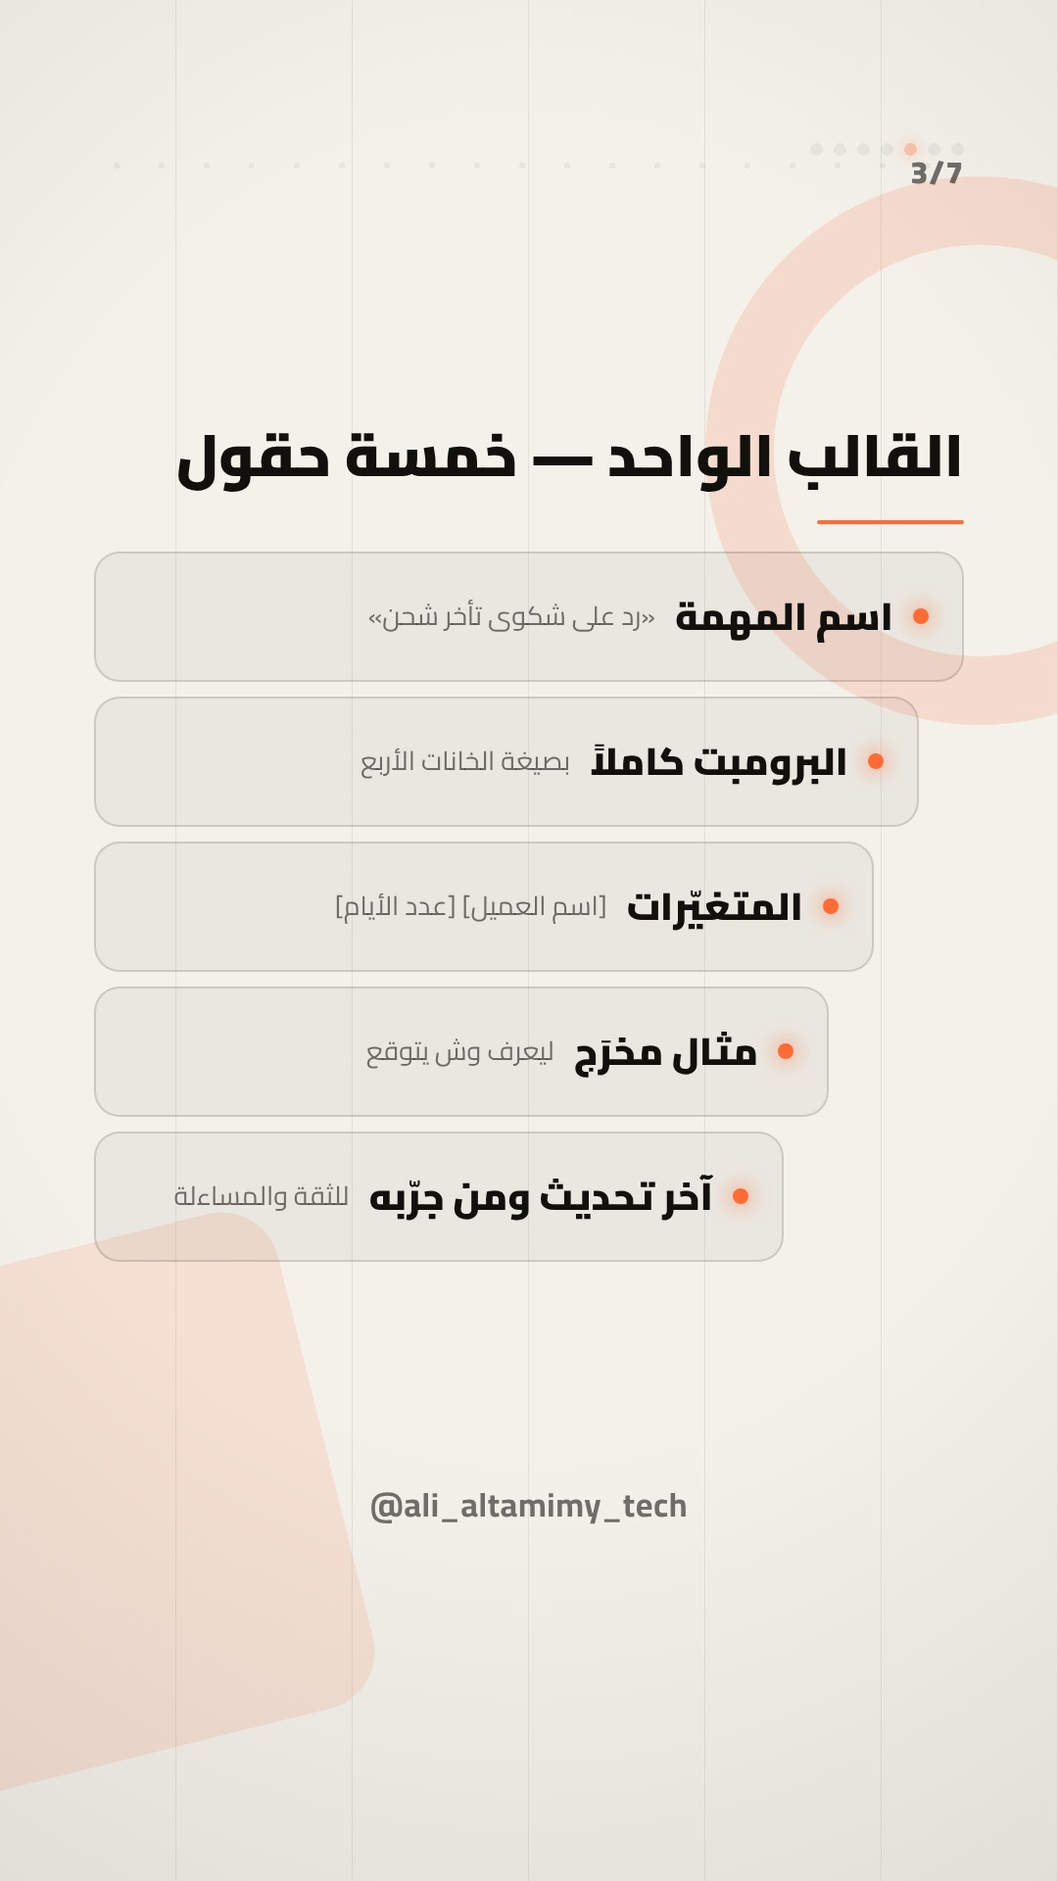
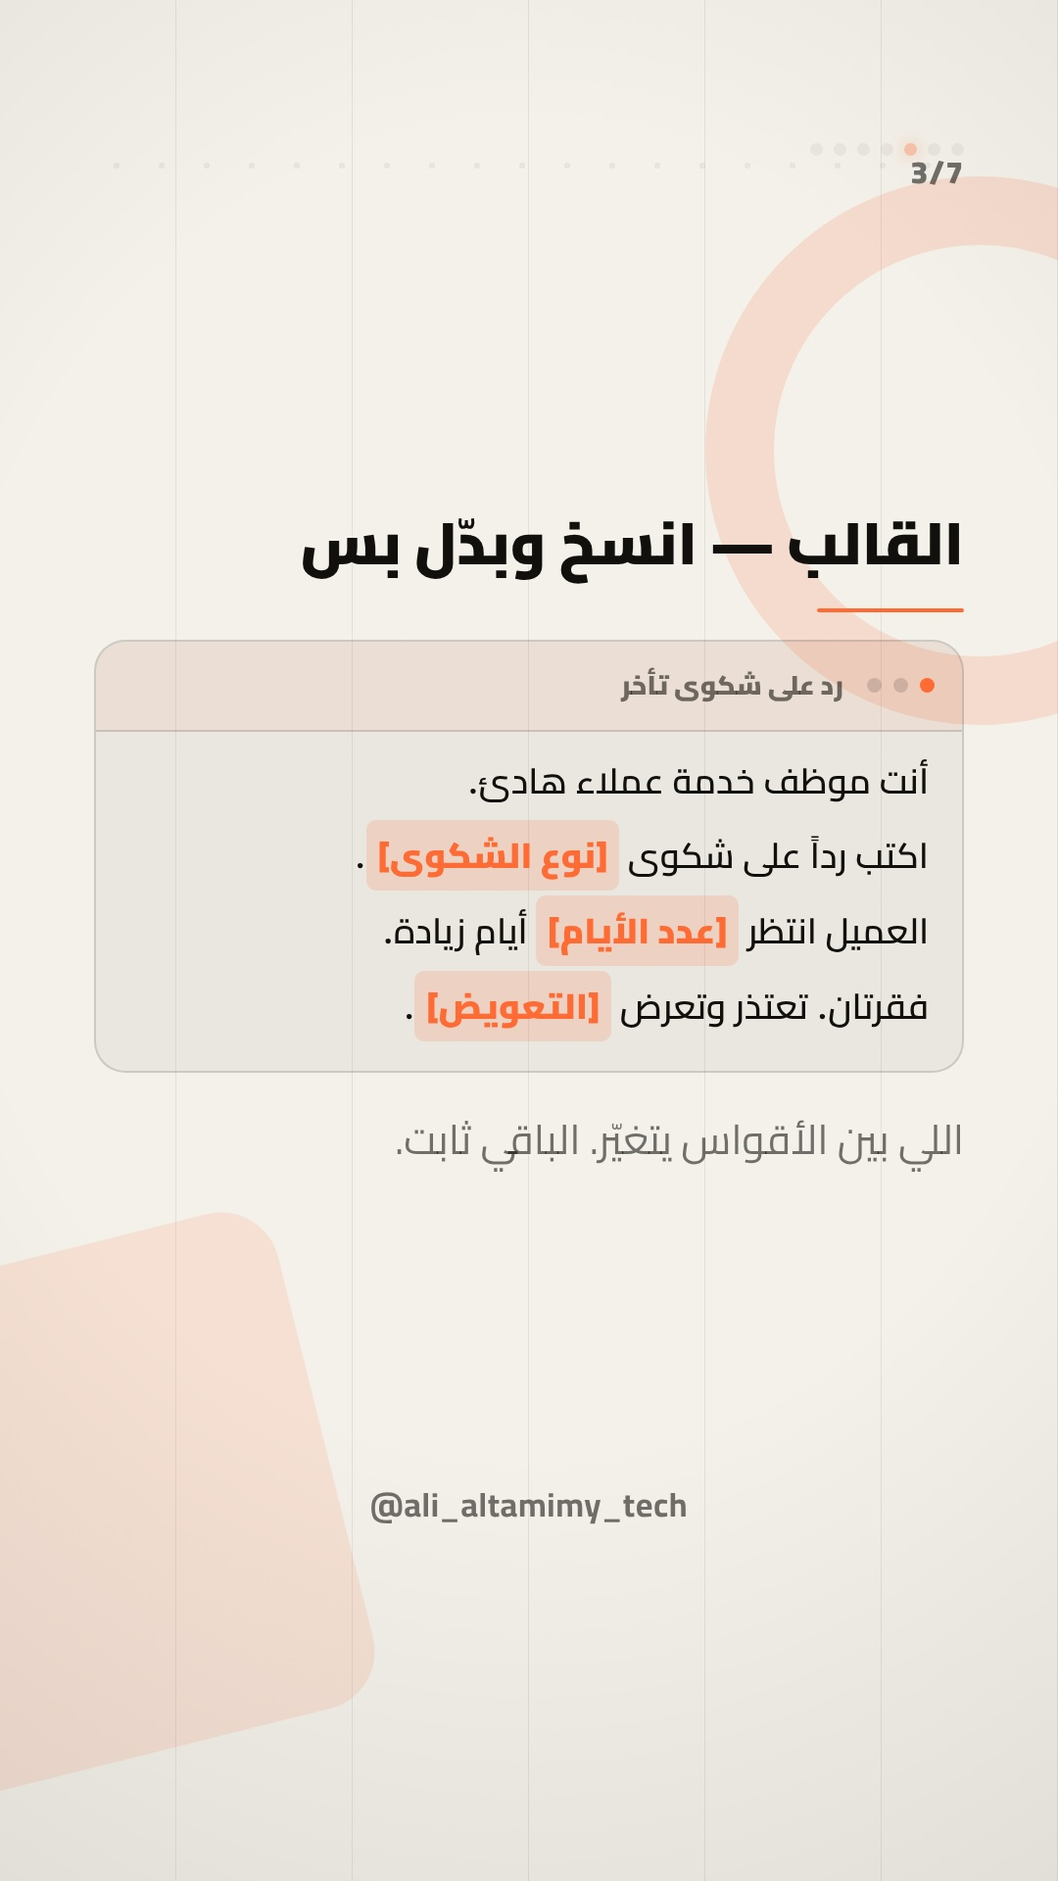
بطاقات توضيحية مرسومة + قواعد كتابة أوضح
## التصميم — أربع بطاقات جديدة تشرح بدل ما تصف

- chat: محادثة مصوّرة ببالونات — تُري المثال بدل ما تكتبه كنص
- prompt: بطاقة قالب بنمط محرّر؛ ما بين [أقواس] يتلوّن كمتغيّر
- checklist: قائمة تحقق بعلامات ✓/✕ ملوّنة
- scene: مشاهد SVG مرسومة بثلاث صيغ —
  funnel (تضييق) · split (عشوائية) · gauge (نسبة)

## المحتوى — ست قواعد وضوح في references/content.md

ابدأ من مشهد لا من مفهوم · جملة = فكرة (١٢ كلمة) · قاموس تبديل
المجرّد بالملموس · أرِ المثال لا تصفه · كل شريحة تفهم لوحدها ·
العنوان يقول الخلاصة لا الموضوع

كاروسيل اليوم ١٥ أُعيد بناؤه بالقواعد الجديدة كمرجع.

Claude-Session: https://claude.ai/code/session_01EgEZRcQa5qrBxqbudDi5cV

Changed region(s): [[0.1528, 0.2188, 0.9167, 0.6562], [0.5194, 0.2188, 0.55, 0.25], [0.3667, 0.375, 0.3972, 0.4062]]

diff --git a/.claude/skills/tiktok-ai-reel/graphics.py b/.claude/skills/tiktok-ai-reel/graphics.py
@@ -49,7 +49,7 @@ def icon(name, size=52, cls="", extra=""):
             f'stroke-linejoin="round" {extra}>{p}</svg>')
 
 
-import math
+import math, re
 
 
 def esc(s):
@@ -199,3 +199,145 @@ def icongrid(items, d0=0.35):
                    + '</div>')
     out.append("</div>")
     return "".join(out)
+
+
+# ————————————————————————— ٧ · بطاقة محادثة —————————————————————————
+
+def chat(turns, d0=0.32):
+    """محادثة مصوّرة — تحوّل نصيحة مجرّدة إلى مثال يُرى.
+
+    turns: [{"who":"me"|"ai", "label":"أنت", "text":"...", "bad":true}]
+    """
+    out = ['<div class="chat">']
+    for i, t in enumerate(turns[:4]):
+        who = "me" if t.get("who", "me") == "me" else "ai"
+        tone = " bad" if t.get("bad") else (" good" if t.get("good") else "")
+        lab = t.get("label") or ("أنت" if who == "me" else "الذكاء الاصطناعي")
+        out.append(
+            f'<div class="bub {who}{tone}" {_a("rise", d0 + i * 0.22, 0.6)}>'
+            f'<span class="who">{esc(lab)}</span>'
+            f'<p>{esc(t.get("text",""))}</p></div>')
+    out.append("</div>")
+    return "".join(out)
+
+
+# ————————————————————————— ٨ · بطاقة برومبت —————————————————————————
+
+def prompt_card(lines, title="", d0=0.32):
+    """بطاقة تشبه محرّر النصوص — المتغيّرات بين [أقواس] تتلوّن تلقائياً."""
+    head = (f'<div class="pcard-bar"><i></i><i></i><i></i>'
+            f'<span>{esc(title)}</span></div>') if title is not None else ""
+    body = []
+    for i, ln in enumerate(lines[:6]):
+        txt = re.sub(r"\[([^\]]+)\]", r'<em>[\1]</em>', esc(ln))
+        body.append(f'<div class="pline" {_a("rise", d0 + i * 0.13, 0.5)}>{txt}</div>')
+    return (f'<div class="pcard" {_a("pop", d0 - 0.1, 0.6)}>{head}'
+            f'<div class="pbody">{"".join(body)}</div></div>')
+
+
+# ————————————————————————— ٩ · قائمة تحقق —————————————————————————
+
+TICK = ('<svg viewBox="0 0 24 24" fill="none" stroke="currentColor" stroke-width="3.2" '
+        'stroke-linecap="round" stroke-linejoin="round"><path d="m5 12.5 4.5 4.5L19 7"/></svg>')
+CROSS = ('<svg viewBox="0 0 24 24" fill="none" stroke="currentColor" stroke-width="3.2" '
+         'stroke-linecap="round"><path d="M6 6l12 12M18 6L6 18"/></svg>')
+
+
+def checklist(items, d0=0.34):
+    """قائمة تحقق: {"text":"...", "ok":true|false}"""
+    out = ['<div class="chk">']
+    for i, it in enumerate(items[:5]):
+        ok = it.get("ok", True)
+        out.append(
+            f'<div class="crow {"y" if ok else "n"}" {_a("slide", d0 + i * 0.16, 0.55)}>'
+            f'<span class="mark">{TICK if ok else CROSS}</span>'
+            f'<span class="ctx">{esc(it.get("text",""))}</span></div>')
+    out.append("</div>")
+    return "".join(out)
+
+
+# ————————————————————————— ١٠ · مشاهد توضيحية —————————————————————————
+
+def _funnel(top, mid, bot, d0):
+    """قمع: كثير يدخل، واحد يخرج — لتوضيح التضييق."""
+    return f'''<svg class="scn" viewBox="0 0 880 560" fill="none" direction="rtl">
+  <path d="M110 70 H770 L520 320 V450 H360 V320 Z" fill="var(--soft)"
+        stroke="var(--a1)" stroke-width="5" stroke-linejoin="round"
+        {_a("pop", d0, 0.75)}/>
+  <text x="440" y="42" text-anchor="middle" fill="var(--muted)" font-size="30"
+        font-weight="700" font-family="Cairo,sans-serif"
+        {_a("fade", d0 + 0.3, 0.5)}>{esc(top)}</text>
+  <text x="440" y="215" text-anchor="middle" fill="var(--ink)" font-size="38"
+        font-weight="800" font-family="Cairo,sans-serif"
+        {_a("fade", d0 + 0.45, 0.5)}>{esc(mid)}</text>
+  <path d="M440 470 v46" stroke="var(--a1)" stroke-width="5" stroke-linecap="round"
+        {_a("fade", d0 + 0.55, 0.4)}/>
+  <circle cx="440" cy="530" r="26" fill="var(--a1)" {_a("pop", d0 + 0.62, 0.5)}/>
+  <text x="440" y="542" text-anchor="middle" fill="var(--bg)" font-size="26"
+        font-weight="900" font-family="Cairo,sans-serif">1</text>
+  <text x="600" y="540" text-anchor="middle" fill="var(--muted)" font-size="29"
+        font-weight="700" font-family="Cairo,sans-serif"
+        {_a("fade", d0 + 0.7, 0.5)}>{esc(bot)}</text>
+</svg>'''
+
+
+def _split(src, outs, d0):
+    """مصدر واحد ← نتائج متفرقة — لتوضيح العشوائية."""
+    n = max(2, min(len(outs), 4))
+    W, y0, y1 = 880, 110, 430
+    xs = [W * (i + 1) / (n + 1) for i in range(n)]
+    p = [f'<svg class="scn" viewBox="0 0 {W} 520" fill="none" direction="rtl">']
+    p.append(f'<rect x="320" y="40" width="240" height="86" rx="26" fill="var(--soft)" '
+             f'stroke="var(--a1)" stroke-width="5" {_a("pop", d0, 0.6)}/>')
+    p.append(f'<text x="440" y="95" text-anchor="middle" fill="var(--ink)" font-size="34" '
+             f'font-weight="800" font-family="Cairo,sans-serif" '
+             f'{_a("fade", d0 + 0.2, 0.5)}>{esc(src)}</text>')
+    for i, x in enumerate(xs):
+        d = d0 + 0.34 + i * 0.13
+        p.append(f'<path d="M440 {y0+20} C440 250 {x:.0f} 250 {x:.0f} {y1-56}" '
+                 f'stroke="var(--line)" stroke-width="4" stroke-dasharray="10 10" '
+                 f'{_a("fade", d, 0.4)}/>')
+        p.append(f'<rect x="{x-96:.0f}" y="{y1-46}" width="192" height="82" rx="22" '
+                 f'fill="var(--panel)" stroke="var(--line)" stroke-width="3" '
+                 f'{_a("pop", d + 0.06, 0.5)}/>')
+        p.append(f'<text x="{x:.0f}" y="{y1+4}" text-anchor="middle" fill="var(--muted)" '
+                 f'font-size="28" font-weight="700" font-family="Cairo,sans-serif">'
+                 f'{esc(outs[i])}</text>')
+    p.append("</svg>")
+    return "".join(p)
+
+
+def _gauge(pct, label, d0):
+    """مؤشّر نصف دائري — لتوضيح درجة أو نسبة."""
+    import math as _m
+    cx, cy, r = 440, 400, 260
+    L = _m.pi * r
+    ang = _m.pi * (1 - min(max(pct, 0), 100) / 100)
+    nx, ny = cx + _m.cos(ang) * (r - 36), cy - _m.sin(ang) * (r - 36)
+    return f'''<svg class="scn" viewBox="0 0 880 470" fill="none" direction="rtl">
+  <path d="M{cx-r} {cy} A{r} {r} 0 0 1 {cx+r} {cy}" stroke="var(--line)"
+        stroke-width="46" stroke-linecap="round"/>
+  <path d="M{cx-r} {cy} A{r} {r} 0 0 1 {cx+r} {cy}" stroke="var(--a1)"
+        stroke-width="46" stroke-linecap="round"
+        style="stroke-dasharray:{L:.1f};stroke-dashoffset:{L:.1f}"
+        {_a("ring", d0, 1.2, f'data-len="{L:.1f}" data-pct="{pct}"')}/>
+  <line x1="{cx}" y1="{cy}" x2="{nx:.1f}" y2="{ny:.1f}" stroke="var(--ink)"
+        stroke-width="9" stroke-linecap="round" {_a("fade", d0 + 0.75, 0.5)}/>
+  <circle cx="{cx}" cy="{cy}" r="22" fill="var(--ink)" {_a("pop", d0 + 0.8, 0.4)}/>
+  <text x="{cx}" y="{cy-56}" text-anchor="middle" fill="var(--ink)" font-size="92"
+        font-weight="900" font-family="Tajawal,Cairo,sans-serif" direction="ltr"
+        {_a("count", d0, 1.2, f'data-v="{pct}%"')}>{pct}%</text>
+  <text x="{cx}" y="{cy+62}" text-anchor="middle" fill="var(--muted)" font-size="31"
+        font-weight="700" font-family="Cairo,sans-serif"
+        {_a("fade", d0 + 0.6, 0.5)}>{esc(label)}</text>
+</svg>'''
+
+
+def scene(spec, d0=0.3):
+    """مشهد توضيحي مرسوم — يشرح الفكرة بشكل بدل نص."""
+    kind = spec.get("kind", "funnel")
+    if kind == "split":
+        return _split(spec.get("src", ""), spec.get("outs", []), d0)
+    if kind == "gauge":
+        return _gauge(spec.get("pct", 50), spec.get("label", ""), d0)
+    return _funnel(spec.get("top", ""), spec.get("mid", ""), spec.get("bot", ""), d0)

diff --git a/.claude/skills/tiktok-ai-reel/render_reel.py b/.claude/skills/tiktok-ai-reel/render_reel.py
@@ -289,6 +289,48 @@ svg [data-a],.icard,.ic{transform-box:fill-box;transform-origin:50% 50%}
 .prow{display:flex;align-items:center;gap:20px;align-self:flex-start}
 .prow .kicker,.prow .iconchip{align-self:auto}
 
+/* ————— بطاقة محادثة ————— */
+.chat{display:flex;flex-direction:column;gap:22px}
+.bub{max-width:86%;padding:30px 34px;border-radius:34px;display:flex;
+  flex-direction:column;gap:10px;border:2px solid var(--line);background:var(--panel)}
+.bub .who{font-weight:800;font-size:26px;color:var(--muted);letter-spacing:.3px}
+.bub p{font-weight:600;font-size:38px;line-height:1.5;color:var(--ink)}
+.bub.me{align-self:flex-start;border-bottom-right-radius:10px;
+  background:var(--soft);border-color:var(--a1)}
+.bub.ai{align-self:flex-end;border-bottom-left-radius:10px}
+.bub.bad{border-color:var(--bad)}
+.bub.bad .who{color:var(--bad)}
+.bub.good{border-color:var(--a1)}
+.bub.good .who{color:var(--a1)}
+
+/* ————— بطاقة برومبت ————— */
+.pcard{border-radius:32px;overflow:hidden;border:2px solid var(--line);
+  background:var(--panel)}
+.pcard-bar{display:flex;align-items:center;gap:12px;padding:20px 28px;
+  background:var(--dim);border-bottom:2px solid var(--line)}
+.pcard-bar i{width:15px;height:15px;border-radius:50%;background:var(--line);display:block}
+.pcard-bar i:first-child{background:var(--a1)}
+.pcard-bar span{margin-inline-start:12px;font-weight:800;font-size:27px;color:var(--muted)}
+.pbody{padding:32px 34px;display:flex;flex-direction:column;gap:16px}
+.pline{font-weight:600;font-size:36px;line-height:1.46;color:var(--ink)}
+.pline em{font-style:normal;font-weight:900;color:var(--a1);
+  background:var(--soft);padding:2px 12px;border-radius:10px}
+
+/* ————— قائمة تحقق ————— */
+.chk{display:flex;flex-direction:column;gap:20px}
+.crow{display:flex;align-items:center;gap:24px;padding:26px 32px;border-radius:28px;
+  background:var(--panel);border:2px solid var(--line)}
+.crow .mark{flex:0 0 auto;width:60px;height:60px;border-radius:50%;display:grid;
+  place-items:center}
+.crow .mark svg{width:32px;height:32px}
+.crow.y .mark{background:var(--soft);color:var(--a1)}
+.crow.n .mark{background:rgba(148,163,184,.16);color:var(--bad)}
+.crow .ctx{font-weight:700;font-size:39px;line-height:1.4}
+.crow.n .ctx{color:var(--muted)}
+
+/* ————— مشهد توضيحي ————— */
+.scn{width:100%;height:auto;align-self:center;overflow:visible}
+
 /* أيقونة داخل بطاقة/نقطة */
 .iconchip{width:104px;height:104px;border-radius:30px;display:grid;place-items:center;
   background:var(--soft);color:var(--a1);align-self:flex-start}
@@ -450,6 +492,27 @@ def scene_html(s):
         it = s.get("items", [])
         return (f'<div class="dgm">{head(s)}{G.icongrid(it, 0.38)}</div>'
                 + foot(s, 0.38 + 0.14 * len(it[:6]) + 0.3))
+
+    # ————— بطاقات توضيحية مرسومة —————
+    if t == "chat":
+        tn = s.get("turns", [])
+        return (f'<div class="dgm">{head(s)}{G.chat(tn, 0.36)}</div>'
+                + foot(s, 0.36 + 0.22 * len(tn[:4]) + 0.25))
+
+    if t == "prompt":
+        ln = s.get("lines", [])
+        return (f'<div class="dgm">{head(s)}'
+                f'{G.prompt_card(ln, s.get("file", "البرومبت"), 0.36)}</div>'
+                + foot(s, 0.36 + 0.13 * len(ln[:6]) + 0.3))
+
+    if t == "checklist":
+        it = s.get("items", [])
+        return (f'<div class="dgm">{head(s)}{G.checklist(it, 0.36)}</div>'
+                + foot(s, 0.36 + 0.16 * len(it[:5]) + 0.3))
+
+    if t == "scene":
+        return (f'<div class="dgm">{head(s)}{G.scene(s, 0.34)}</div>'
+                + foot(s, 1.35))
 
     if t == "hook":
         p = []

diff --git a/.claude/skills/tiktok-ai-reel/references/content.md b/.claude/skills/tiktok-ai-reel/references/content.md
@@ -11,6 +11,75 @@
 المصطلحات التقنية المستقرة تُترك كما هي: Prompt · Agent · Webhook · API · Workflow.
 اشرحها بالعربي أول مرة تذكرها.
 
+
+## وضوح المحتوى — القسم الأهم
+
+المشاهد يقرأ الشريحة **في ثانيتين وهو يسحب**. لو احتاج يفكّر ليفهم، راح.
+
+### القاعدة الأولى: ابدأ من مشهد يعرفه، لا من مفهوم
+
+- ❌ «الطلب العام يعطيك متوسط ما تعلّمه النموذج»
+- ✅ «كتبت: اكتب لي منشور. طلع لك كلام يصلح لأي شركة في العالم»
+
+المفهوم يجي **بعد** ما يشوف الموقف، مو قبله.
+
+### القاعدة الثانية: جملة واحدة = فكرة واحدة
+
+الحد الأقصى **١٢ كلمة للجملة**. لو فيها «و» مرتين، قسّمها.
+
+- ❌ «النموذج يتعامل مع الرقم كنص يتوقّعه مو كمعادلة يحسبها فيعطيك رقماً معقولاً وغلط»
+- ✅ «هو ما يحسب الرقم. يخمّنه. فيطلع شكله صح — وهو غلط.»
+
+### القاعدة الثالثة: بدّل المجرّد بالملموس
+
+| بدل ما تكتب | اكتب |
+|---|---|
+| يُقصي احتمالات خاطئة | يقلّل الخيارات الغلط |
+| متوسط ما تعلّمه | جواب عام يصلح لأي أحد |
+| نتيجته احتمالية | ممكن تتغيّر من مرة لمرة |
+| طبقات السياق | المعلومات اللي تعطيها له |
+| يستخرج الأنماط | يشوف الشبه بين الأمثلة |
+| أصل مؤسسي | شي يبقى للشركة لو راح الموظف |
+
+**اختبار:** لو ما تقدر ترسم الكلمة أو توريها بمثال، فهي مجرّدة — بدّلها.
+
+### القاعدة الرابعة: أرِ المثال، لا تصفه
+
+هذا اللي تسويه **البطاقات التوضيحية**. بدل ما تقول «اكتب طلباً محدداً»،
+استخدم `chat` وورّه الطلب الغامض والطلب المحدد كرسائل حقيقية.
+
+| المحتوى | البطاقة |
+|---|---|
+| مثال طلب ورد عليه | `chat` |
+| قالب جاهز للنسخ | `prompt` |
+| أشياء تتأكد منها | `checklist` |
+| تضييق أو تصفية | `scene` kind: `funnel` |
+| مصدر واحد ← نتائج متفرقة | `scene` kind: `split` |
+| نسبة أو درجة | `scene` kind: `gauge` |
+
+**استخدم بطاقة توضيحية واحدة على الأقل في كل كاروسيل.** هي اللي تحوّل النصيحة
+من كلام إلى شي يُرى.
+
+### القاعدة الخامسة: كل شريحة تفهم لوحدها
+
+المشاهد ممكن يبدأ من الشريحة ٤. لو ما فهمها بلا ما يرجع، الشريحة فاشلة.
+
+- لا تبدأ شريحة بـ«وعشان كذا» أو «وبالتالي»
+- لا تستخدم ضميراً يعود على شريحة سابقة («هذي الطريقة» — أي طريقة؟)
+- كرر الكلمة المفتاحية بدل ما تحيل إليها
+
+### القاعدة السادسة: العنوان يقول الخلاصة، مو الموضوع
+
+- ❌ «الخانات الأربع» (موضوع)
+- ✅ «املأ الأربع خانات، وتتحسّن النتيجة فوراً» (خلاصة)
+
+المشاهد يقرأ العنوان بس أحياناً — فخلّه يستفيد.
+
+### اختبار نهائي قبل التصيير
+
+اقرأ كل شريحة واسأل: **لو شافها شخص ما يعرف شي عن الموضوع، بيفهم وش المقصود؟**
+لو الجواب «يمكن»، أعد الصياغة.
+
 ## قاعدة الهوك — أول ٣ ثوانٍ
 
 الهوك يقرر ٩٠٪ من المشاهدات. اختر واحداً:

diff --git a/.claude/skills/tiktok-ai-reel/SKILL.md b/.claude/skills/tiktok-ai-reel/SKILL.md
@@ -98,6 +98,15 @@ D=output/$(date +%F) && mkdir -p $D
 | `icons` | `title` `items[{icon,label,note}]` `body` — ٤–٦ عناصر متوازية |
 | `cta` | `kicker` `title` `body` `name` `handle` — **يضيف صورة علي تلقائياً** |
 
+**البطاقات التوضيحية — استخدم واحدة على الأقل في كل كاروسيل:**
+
+| النوع | الحقول |
+|---|---|
+| `chat` | `title` `turns[{who:"me"\|"ai", label, text, bad, good}]` — محادثة مصوّرة تُري المثال بدل ما تصفه |
+| `prompt` | `title` `file` `lines[]` — بطاقة قالب؛ ما بين `[أقواس]` يتلوّن كمتغيّر |
+| `checklist` | `title` `items[{text, ok}]` — قائمة تحقق بعلامات ✓/✕ |
+| `scene` | `title` `kind` `body` — مشهد مرسوم. `funnel` (تضييق: `top` `mid` `bot`) · `split` (عشوائية: `src` `outs[]`) · `gauge` (نسبة: `pct` `label`) |
+
 حقل `dur` غير مستخدم في الكاروسيل — احذفه.
 
 **الأيقونات المتاحة:** `bolt gear bot doc mail calendar chart chip cloud clock check
